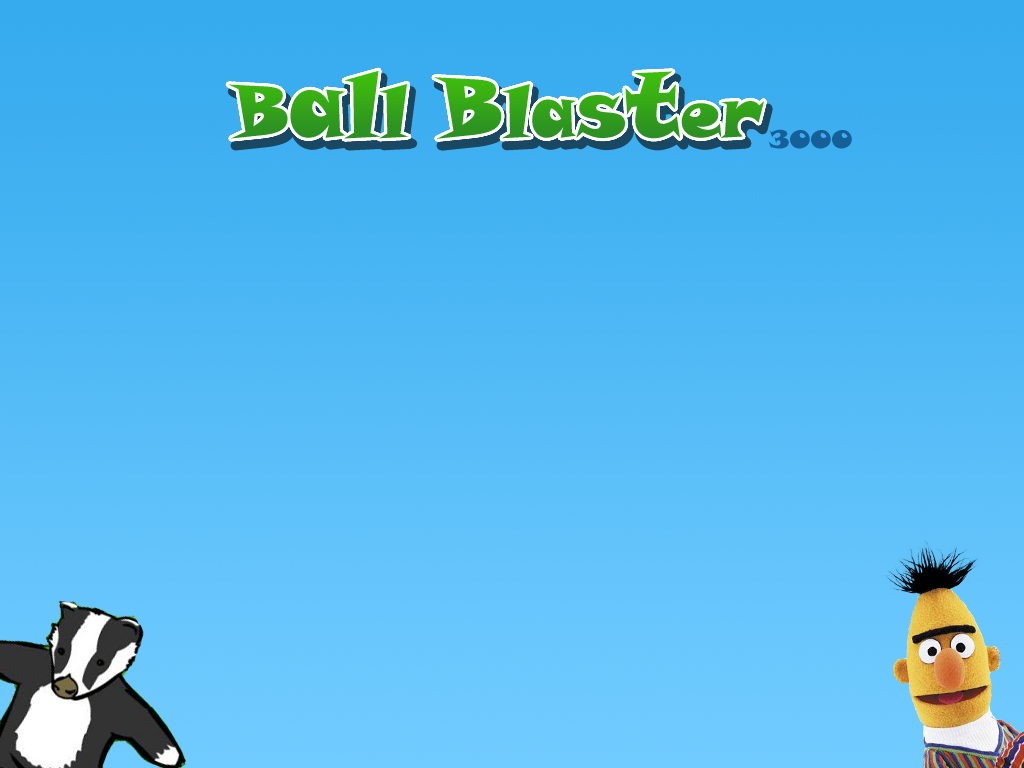
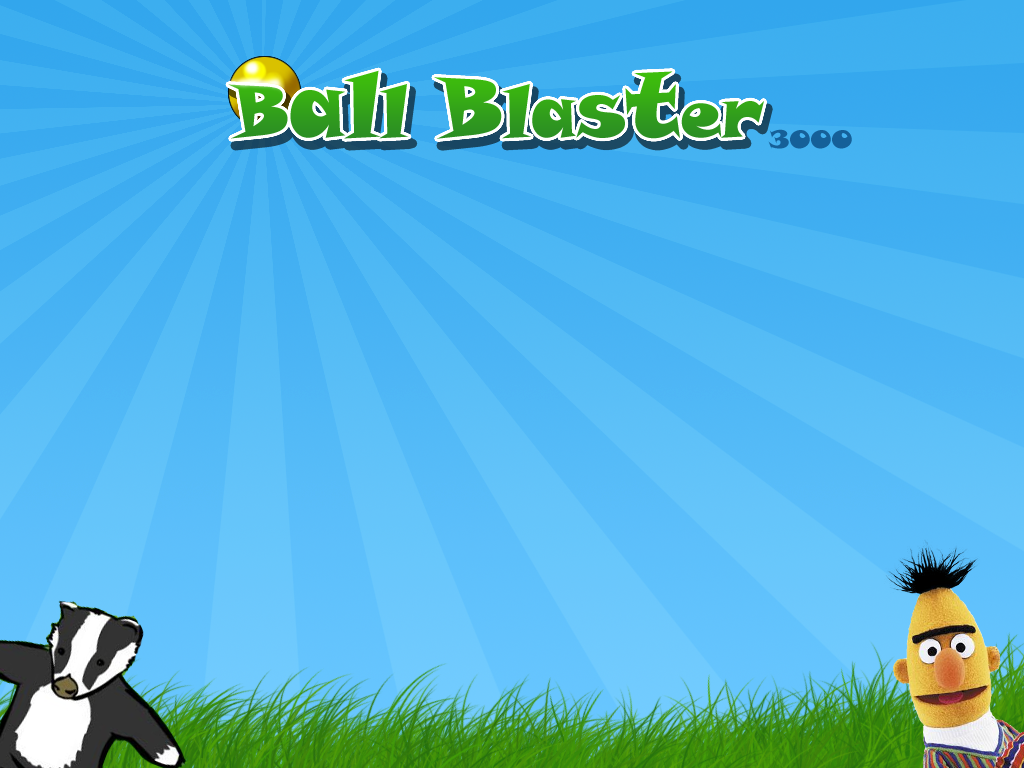
Changed a few scrolling parameters. Updated menu background

diff --git a/Headers/simulator_event_handler.h b/Headers/simulator_event_handler.h
@@ -12,7 +12,7 @@ class simulator_event_handler : public event_handler {
 		STATE_NOT_COMPLETED,
 		STATE_COMPLETED
 	};
-	static const int	FOLLOW_LIMIT = 200;
+	static const int	FOLLOW_LIMIT = 300;
 
 	SIMULATION_STATES	_state;
 	bool				_from_editor;
